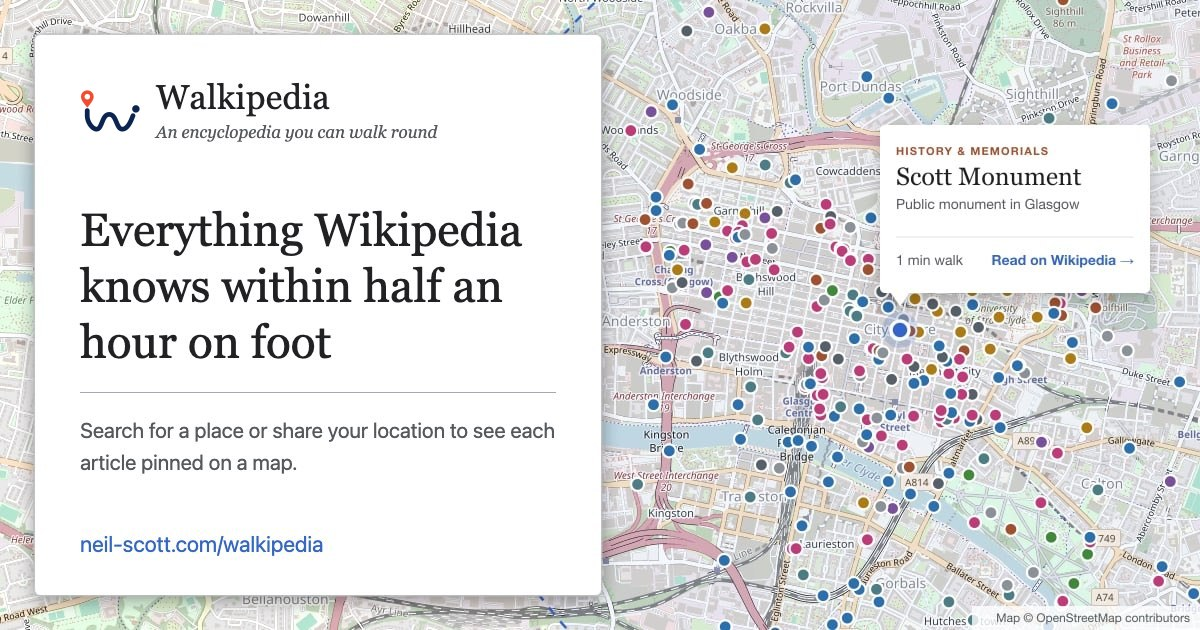
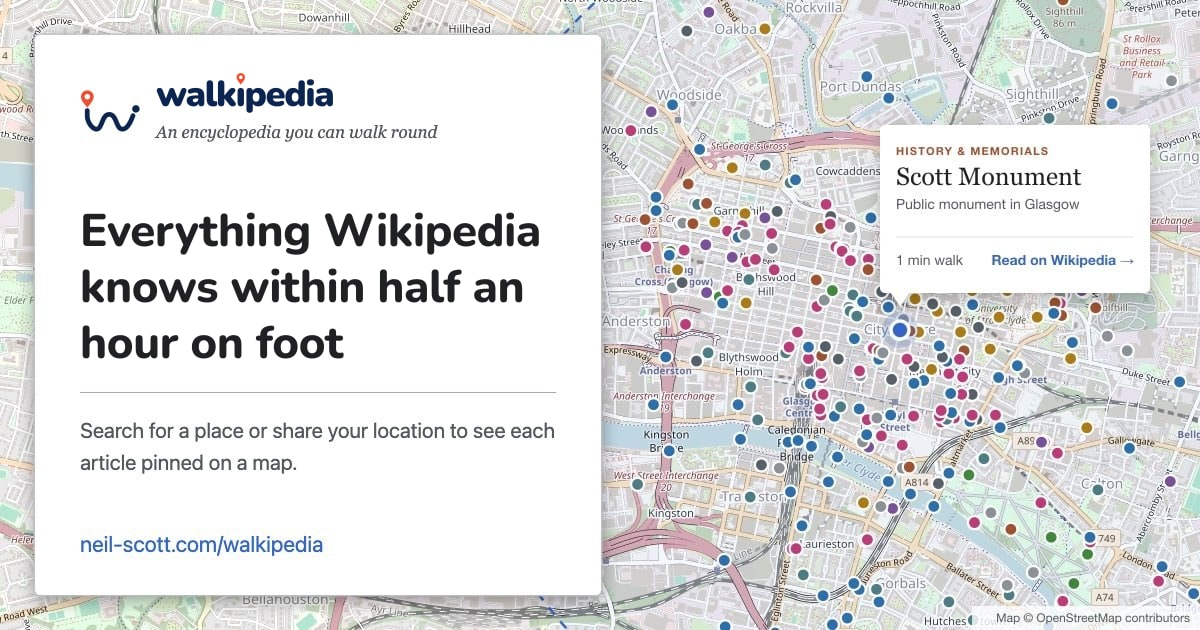
update wordmark

Changed region(s): [[0.0617, 0.3317, 0.4625, 0.4825], [0.0617, 0.5127, 0.3083, 0.573], [0.1233, 0.1206, 0.2775, 0.181]]

diff --git a/css/style.css b/css/style.css
@@ -1,6 +1,6 @@
 /* ---------------------------------------------------------------
-   Walkipedia — Wikipedia's look: white paper, serif headings,
-   hairline rules and that particular link blue.
+   Walkipedia — Wikipedia's look: white paper, hairline rules and
+   that particular link blue, with rounded Nunito headings.
 ---------------------------------------------------------------- */
 :root {
   --paper: #ffffff;
@@ -15,10 +15,23 @@
   --focus: #36c;
 
   --font-serif: "Linux Libertine", "Georgia", "Times", serif;
+  --font-display: "Nunito", -apple-system, BlinkMacSystemFont, "Segoe UI", Arial, sans-serif;
   --font-sans: -apple-system, BlinkMacSystemFont, "Segoe UI", "Inter", "Helvetica Neue", Arial, sans-serif;
 
   --radius: 4px;
   --mast-h: 75px;   /* the sticky masthead's height; app.js keeps it exact */
+}
+
+/* Nunito, self-hosted (SIL OFL, see fonts/OFL.txt) */
+@font-face {
+  font-family: "Nunito"; font-style: normal; font-weight: 700 800; font-display: swap;
+  src: url("../fonts/nunito-latin-ext.woff2") format("woff2");
+  unicode-range: U+0100-02BA, U+02BD-02C5, U+02C7-02CC, U+02CE-02D7, U+02DD-02FF, U+0304, U+0308, U+0329, U+1D00-1DBF, U+1E00-1E9F, U+1EF2-1EFF, U+2020, U+20A0-20AB, U+20AD-20C4, U+2113, U+2C60-2C7F, U+A720-A7FF;
+}
+@font-face {
+  font-family: "Nunito"; font-style: normal; font-weight: 700 800; font-display: swap;
+  src: url("../fonts/nunito-latin.woff2") format("woff2");
+  unicode-range: U+0000-00FF, U+0131, U+0152-0153, U+02BB-02BC, U+02C6, U+02DA, U+02DC, U+0304, U+0308, U+0329, U+2000-206F, U+20AC, U+2122, U+2191, U+2193, U+2212, U+2215, U+FEFF, U+FFFD;
 }
 
 *, *::before, *::after { box-sizing: border-box; }
@@ -33,7 +46,7 @@ body {
   line-height: 1.5;
 }
 
-h1, h2, .brand-name { font-family: var(--font-serif); font-weight: 400; }
+h1, h2, h3 { font-family: var(--font-display); font-weight: 800; }
 
 a { color: var(--link); text-decoration: none; }
 a:hover { text-decoration: underline; }
@@ -89,7 +102,7 @@ a:hover { text-decoration: underline; }
 .brand:hover { text-decoration: none; }
 .globe { flex: none; width: 58px; height: 42px; }
 .brand-text { display: flex; flex-direction: column; line-height: 1.1; }
-.brand-name { font-size: 1.6rem; letter-spacing: .01em; }
+.brand-name { display: block; align-self: flex-start; height: 33px; width: auto; }
 .brand-tag { font-family: var(--font-serif); font-size: .82rem; font-style: italic; color: var(--ink-soft); margin-top: 2px; }
 
 .place-form { flex: 1 1 420px; display: flex; gap: 8px; max-width: 680px; }
@@ -265,7 +278,7 @@ a:hover { text-decoration: underline; }
 }
 .article-body { min-width: 0; }
 .article h3 {
-  margin: 0; font-size: 1rem; font-weight: 600; line-height: 1.3;
+  margin: 0; font-size: 1rem; font-weight: 700; line-height: 1.3;
   overflow-wrap: anywhere;
 }
 .article h3 a { color: var(--link); }
@@ -330,7 +343,7 @@ a:hover { text-decoration: underline; }
 .popup img { display: block; width: 100%; height: 160px; object-fit: cover; border-radius: 4px 4px 0 0; background: var(--rule-soft); }
 .popup-body { padding: 12px 14px 14px; }
 .popup .kind-tag { font-size: .72rem; text-transform: uppercase; letter-spacing: .08em; color: var(--kind); font-weight: 600; }
-.popup h3 { margin: 2px 0 2px; font: 400 1.25rem/1.2 var(--font-serif); padding-right: 14px; }
+.popup h3 { margin: 2px 0 2px; font: 800 1.25rem/1.2 var(--font-display); padding-right: 14px; }
 .popup .desc { margin: 0 0 8px; font-size: .82rem; color: var(--ink-soft); }
 .popup .extract { margin: 0 0 10px; font-size: .86rem; line-height: 1.45; color: var(--ink); }
 .popup .extract.is-loading { color: var(--ink-soft); font-style: italic; }
@@ -389,7 +402,7 @@ a:hover { text-decoration: underline; }
   .place-form { display: contents; }
   .brand { grid-column: 1 / 3; gap: 10px; }
   .globe { width: 44px; height: 32px; }
-  .brand-name { font-size: 1.3rem; }
+  .brand-name { height: 27px; }
   .brand-tag { display: none; }
   .place-form .lang-select { grid-row: 1; grid-column: 3; justify-self: end; min-width: 0; padding-top: 6px; padding-bottom: 6px; }
   .place-form input { grid-row: 2; grid-column: 1; }

diff --git a/index.html b/index.html
@@ -11,20 +11,21 @@
   <meta property="og:title" content="Walkipedia">
   <meta property="og:description" content="Every Wikipedia article within half an hour on foot, pinned on a map.">
   <meta property="og:url" content="https://www.neil-scott.com/walkipedia/">
-  <meta property="og:image" content="https://www.neil-scott.com/walkipedia/og-image.jpg?v=3">
+  <meta property="og:image" content="https://www.neil-scott.com/walkipedia/og-image.jpg?v=4">
   <meta property="og:image:width" content="1200">
   <meta property="og:image:height" content="630">
   <meta property="og:image:alt" content="‘Walkipedia: everything Wikipedia knows within half an hour on foot’ beside a map of central Glasgow covered in pins for nearby Wikipedia articles.">
   <meta name="twitter:card" content="summary_large_image">
   <meta name="twitter:title" content="Walkipedia">
   <meta name="twitter:description" content="Every Wikipedia article within half an hour on foot, pinned on a map.">
-  <meta name="twitter:image" content="https://www.neil-scott.com/walkipedia/og-image.jpg?v=3">
+  <meta name="twitter:image" content="https://www.neil-scott.com/walkipedia/og-image.jpg?v=4">
   <meta name="twitter:image:alt" content="‘Walkipedia: everything Wikipedia knows within half an hour on foot’ beside a map of central Glasgow covered in pins for nearby Wikipedia articles.">
 
   <link rel="stylesheet" href="https://cdnjs.cloudflare.com/ajax/libs/leaflet/1.9.4/leaflet.min.css">
   <link rel="stylesheet" href="https://cdnjs.cloudflare.com/ajax/libs/leaflet.markercluster/1.5.3/MarkerCluster.min.css">
   <link rel="stylesheet" href="https://cdnjs.cloudflare.com/ajax/libs/maplibre-gl/4.7.1/maplibre-gl.min.css">
-  <link rel="stylesheet" href="css/style.css?v=01a31a7f">
+  <link rel="preload" href="fonts/nunito-latin.woff2" as="font" type="font/woff2" crossorigin>
+  <link rel="stylesheet" href="css/style.css?v=6371a5fb">
   <link rel="icon" href="icon.svg" type="image/svg+xml">
   <link rel="apple-touch-icon" href="apple-touch-icon.png">
   <link rel="manifest" href="manifest.webmanifest">
@@ -37,7 +38,7 @@
     <a class="brand" href="./" aria-label="Walkipedia, start again">
       <svg class="globe" viewBox="16 20 72 52" aria-hidden="true"><path d="M24.5 45.5V52C24.5 59 30.5 67.5 35.5 67.5C42.5 67.5 41.5 50 50.5 50S58.5 67.5 66 67.5C71.5 67.5 75.5 60 78.6 51.5" fill="none" stroke="#0c2550" stroke-width="5.6" stroke-linecap="round" stroke-linejoin="round"/><circle cx="82" cy="43.5" r="4.4" fill="#0c2550"/><path d="M24.6 42C21.5 38 17.1 33.5 17.1 29.1A7.5 7.5 0 0 1 32.1 29.1C32.1 33.5 27.7 38 24.6 42z" fill="#f04e30"/><circle cx="24.6" cy="29.1" r="3.3" fill="#fff"/></svg>
       <span class="brand-text">
-        <span class="brand-name">Walkipedia</span>
+        <img class="brand-name" src="wordmark.svg" alt="">
         <span class="brand-tag">An encyclopedia you can walk round</span>
       </span>
     </a>
